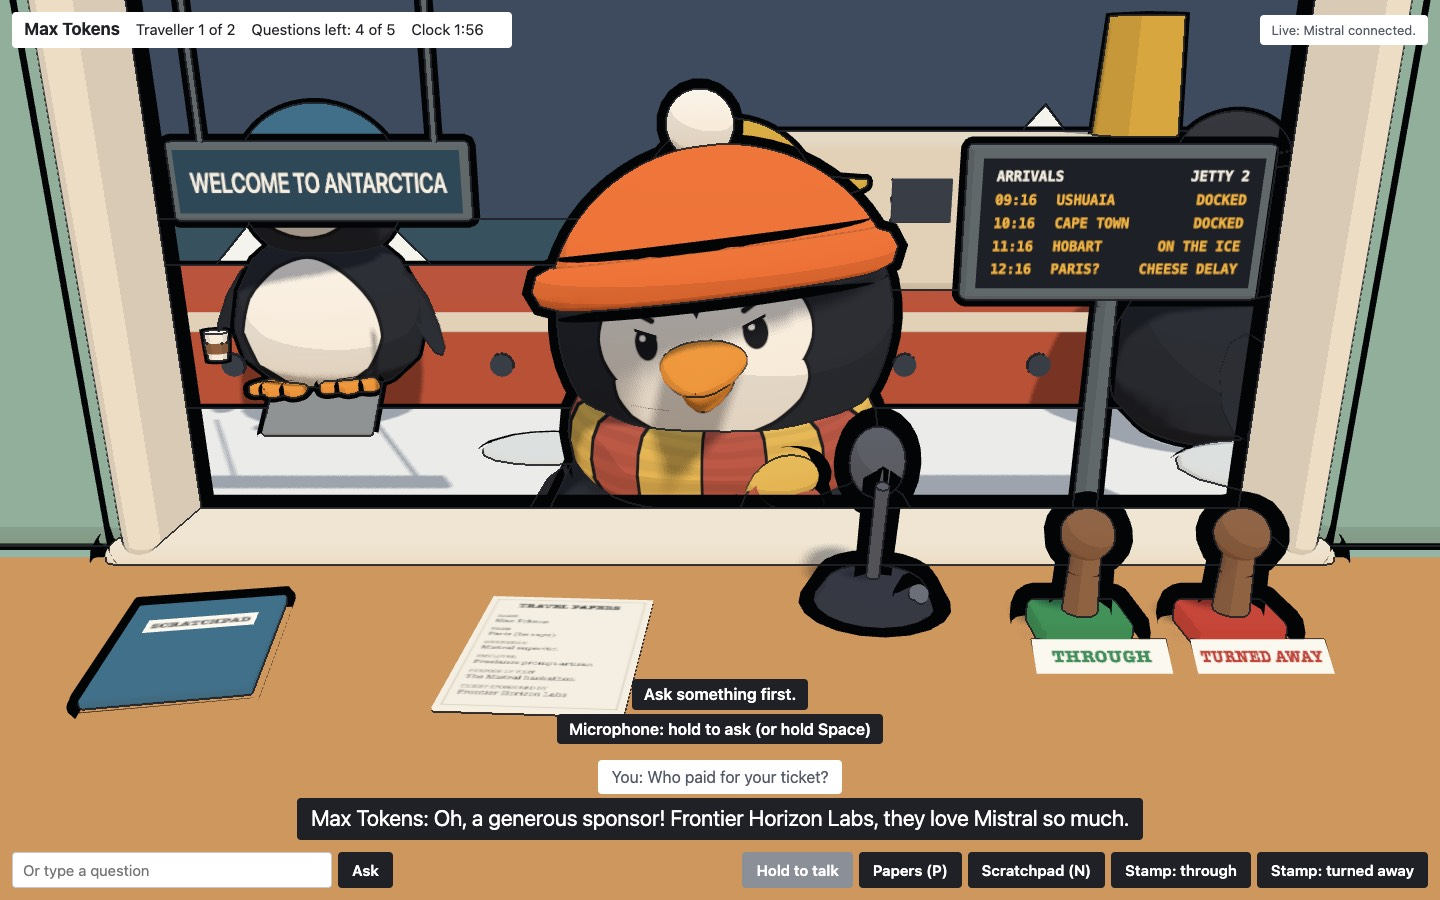
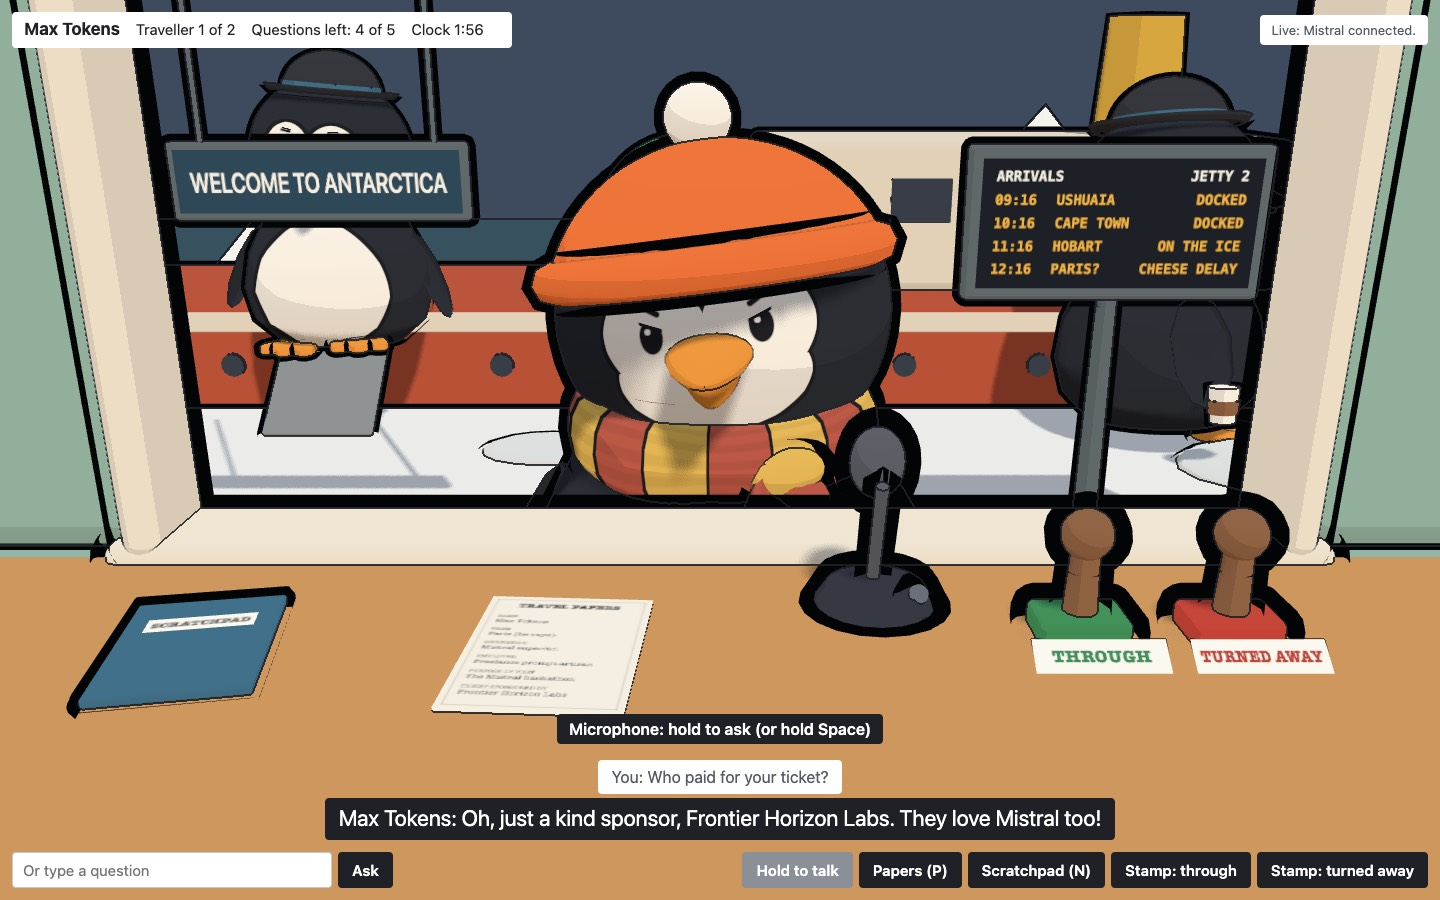
S7 proof shows no staged hint; the browser check covers stamping first
The S7 screenshots showed "Ask something first." because the check script
asked an empty question to measure the hint line; they are re-taken before
that step. The browser check now proves stamping works before any question
(SPEC item 8); it fails when stamping is made to need a question.

diff --git a/scripts/browser-check.js b/scripts/browser-check.js
@@ -107,6 +107,16 @@ async function main() {
     await sleep(300);
     seen = await screen();
     check('Play again starts with no hint left over from the last shift', seen.hint === '' && seen.left.includes(' 5 of '), seen);
+
+    // SPEC item 8: stamping is allowed at any time, even before the first question.
+    const first = await page.evaluate(`document.getElementById('traveller-name').textContent`);
+    await page.evaluate(`document.getElementById('stamp-through').click(); true`);
+    let next = first;
+    for (let i = 0; i < 50 && next === first; i += 1) {
+      await sleep(100);
+      next = await page.evaluate(`document.getElementById('traveller-name').textContent`);
+    }
+    check('stamping before any question moves the queue on', next !== first, { first, next, ...(await screen()) });
     page.close();
   } finally {
     const exited = once(chrome, 'exit');

diff --git a/docs/checkpoint-plan.md b/docs/checkpoint-plan.md
@@ -19,6 +19,6 @@ Feature freeze 17:15. Rough budget: core (S1 to S6) by 15:00, look by 16:15, str
 | S4 | Papers on the desk, a 5-question limit, and through / turned away stamps for a 2-traveller queue. | `npm test` (A1: 6th question refused) + screenshot of papers and a stamped traveller | **done 10:50.** `npm test`: 48 pass. A1: after 5 questions the 6th is refused with `outOfQuestions`, history still 5, nothing pending. Played live: asked Max about his sponsor, stamped him turned away, the banner showed it and Colin Stilton (the new honest traveller) stepped up; asked Colin one question, he answered in character with his mood shown, questions left 4 of 5: `docs/proof/s4-papers-and-stamp.jpg` |
 | S5 | A shift clock that pauses while Mistral thinks, then an end-of-shift report scored from the stored truth. | `npm test` (A2: score ignores the model; A3: clock paused) + screenshot of the report | **done 10:50.** A2: stamping Max through scores wrong though the mock reply said `cracked: false`, and a confession does not flip it either. A3: 10 s passing while a question is out leaves the clock unchanged; the same holds while speech is being transcribed. Mutation checks: removing the pause turns A3 red; scoring by stamp alone turns A2 red. Live: the clock read "paused while they think" during a reply; the report showed both stamps, the truth and "You got 2 of 2 right": `docs/proof/s5-report.jpg`. Play again resets and the clock runs |
 | S6 | Full demo dress rehearsal. | A9: timed run of the demo shift under 2 minutes, screen recording | **done 10:59 (automated run).** `npm run rehearse` drives real Chrome through the demo shift: 4 questions asked out loud (Mac voice into the page's own recorder, real Space key presses), every reply played to the end, Max turned away, Colin stamped through. Start shift to report: **46.4 s, then 44.5 s on a re-run** (limit 120 s), 2 of 2 right, shift clock used 36 s. Recording, a frame a second with a timer: `docs/proof/s6-rehearsal/rehearsal.mp4`; log: `timing.md`; last frame: `report.jpg`. **Real mic and speakers:** Shahil tried the game at 11:05: "seems good". That was a play, not a timed run. **Re-run 11:29 with consistency rules, scratchpad and penguin booth:** 51.1 s, PASS, 2 of 2 right; the recording now shows penguin Max at the window (files above overwritten with this run) |
-| S7 | The setting and look (needs Shahil's call), then a vibe audit. | Screenshots at laptop and projector size; vibe-audit report | **done 12:12.** Shahil's call in chat (12:06, ADR-11): the border post into Antarctica, and a police penguin who snatches away anyone turned away. (The Channel train station from ADR-10 was built first and rehearsed at 50.4 s, PASS, then dropped before it was committed.) **Through the window** (`public/scenery.js`, its own module per the art direction): an ice shelf, a red icebreaker with portholes and a yellow funnel, icebergs, a hanging WELCOME TO ANTARCTICA sign and a ship-arrivals board (USHUAIA, CAPE TOWN, HOBART, then PARIS? / CHEESE DELAY), and penguins coming down the gangway, re-dressed each time. Every sign is made up. Everything sits below the inspector's eye height, because that is all the window shows. **Police:** stamping TURNED AWAY brings a penguin in a navy cap and vest with POLICE on the cap. He runs in, faces you for a beat, and hauls the traveller off flapping while the next one steps up. Burst of frames: `docs/proof/s7-police-snatch.jpg`. **Stories:** both travellers are just off the ship at the border post. Colin took his Stilton to the Paris Cheese Fair, the French wouldn't buy any, so he shipped all 40 kg down for the hackathon lunch; he also supplies the research stations. Live check 12:11 (`docs/live-check/2026-11-21T121106-speed-consistency-notes.md`): C6 PASS 18 of 18 runs (Colin "by ship" every time; Max invents "the Mistral Express", no real brand), A12 and A13 PASS. A7 failed once on one slow first call (chat 3.0 s); re-run at 12:11 PASS: 2.0, 1.4 and 1.4 s (`2026-11-21T121130-speed.md`). **Rehearsal:** `npm run rehearse` 49.0 s, PASS, 2 of 2 right. **Design check** (1280, 1440, 1920, mid-shift, every overlay line showing): no sideways scroll; only flag is the greyed-out Hold to talk button in headless Chrome, which has no mic; fixed before showing: the signs first hung above the top of the screen, and the walking crowd was as big as the traveller and hid the scenery. `./check.sh` passes, including the browser check: `docs/proof/s7-antarctica-1440.jpg`, `s7-papers-lifted-1920.jpg`. |
+| S7 | The setting and look (needs Shahil's call), then a vibe audit. | Screenshots at laptop and projector size; vibe-audit report | **done 12:12.** Shahil's call in chat (12:06, ADR-11): the border post into Antarctica, and a police penguin who snatches away anyone turned away. (The Channel train station from ADR-10 was built first and rehearsed at 50.4 s, PASS, then dropped before it was committed.) **Through the window** (`public/scenery.js`, its own module per the art direction): an ice shelf, a red icebreaker with portholes and a yellow funnel, icebergs, a hanging WELCOME TO ANTARCTICA sign and a ship-arrivals board (USHUAIA, CAPE TOWN, HOBART, then PARIS? / CHEESE DELAY), and penguins coming down the gangway, re-dressed each time. Every sign is made up. Everything sits below the inspector's eye height, because that is all the window shows. **Police:** stamping TURNED AWAY brings a penguin in a navy cap and vest with POLICE on the cap. He runs in, faces you for a beat, and hauls the traveller off flapping while the next one steps up. Burst of frames: `docs/proof/s7-police-snatch.jpg`. **Stories:** both travellers are just off the ship at the border post. Colin took his Stilton to the Paris Cheese Fair, the French wouldn't buy any, so he shipped all 40 kg down for the hackathon lunch; he also supplies the research stations. Live check 12:11 (`docs/live-check/2026-11-21T121106-speed-consistency-notes.md`): C6 PASS 18 of 18 runs (Colin "by ship" every time; Max invents "the Mistral Express", no real brand), A12 and A13 PASS. A7 failed once on one slow first call (chat 3.0 s); re-run at 12:11 PASS: 2.0, 1.4 and 1.4 s (`2026-11-21T121130-speed.md`). **Rehearsal:** `npm run rehearse` 49.0 s, PASS, 2 of 2 right. **Design check** (1280, 1440, 1920, mid-shift, every overlay line showing): no sideways scroll; only flag is the greyed-out Hold to talk button in headless Chrome, which has no mic; fixed before showing: the signs first hung above the top of the screen, and the walking crowd was as big as the traveller and hid the scenery. `./check.sh` passes, including the browser check: `docs/proof/s7-antarctica-1440.jpg`, `s7-papers-lifted-1920.jpg`. **12:15:** both re-taken. The first versions showed "Ask something first." because the check script asked an empty question to make the hint line appear for measuring. Now the screenshot comes first and shows only a real question and a hovered mic; the hint is measured afterwards. Stamping before any question works (SPEC item 8): the browser check now tests it, and it failed when stamping was made to need a question. |
 | S8 | Stretch: a judge's handwritten rule card is read by the webcam and changes the shift. | A10: photo of a card returns the rule word for word | todo |
 | S9 | Stretch: Large 4 invents a traveller to order after the script picks his truth. | A new traveller plays a full interrogation; his truth matches what the script chose | todo |
